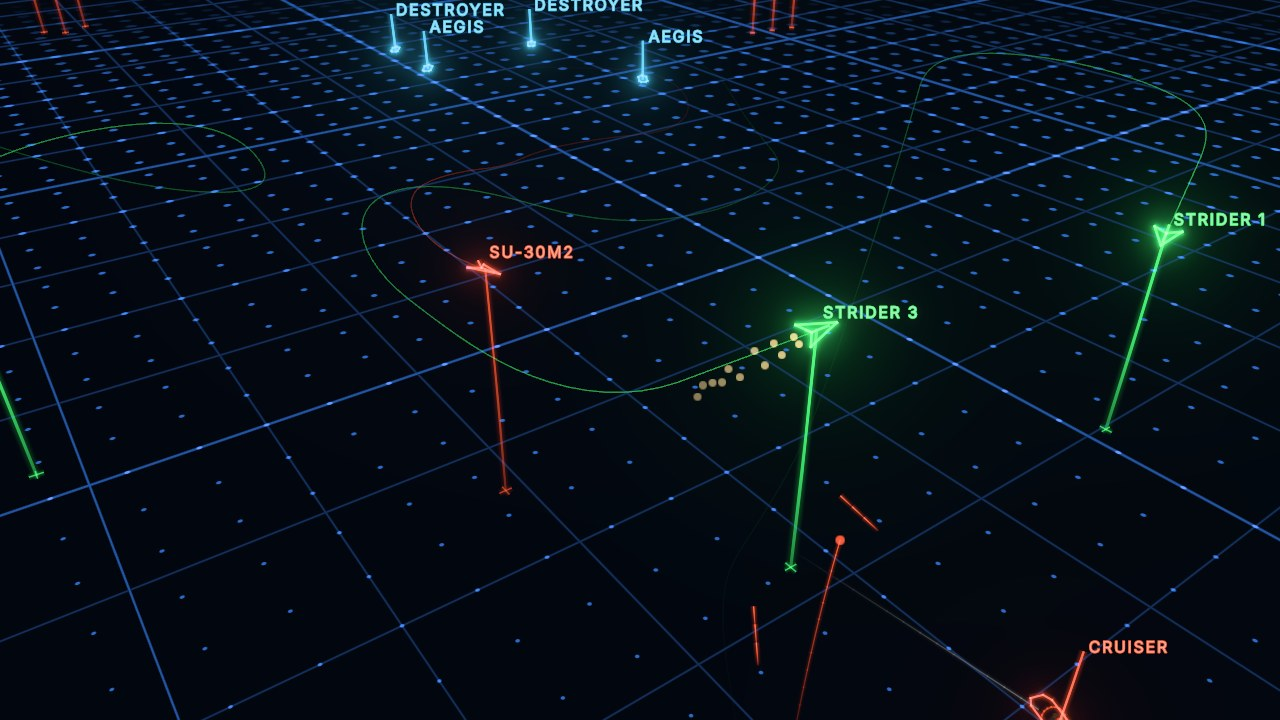
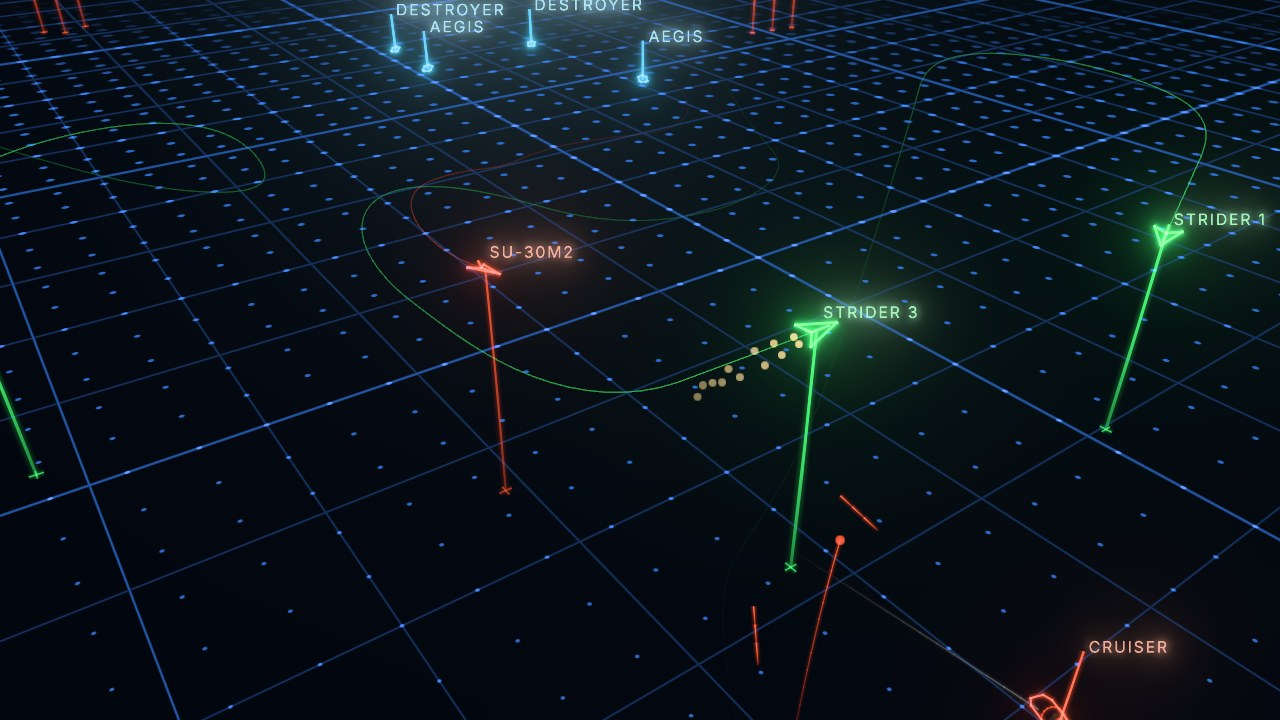
Names: the original text, the glow only from bloom (a names pass feeds the bloom)
- labelMat draws the text as before (the light core fill), without the outline and without any baked glow
- Label sprites are also on LABEL_LAYER; PIPE.names (half-resolution pass of that layer) is added x BLOOM.names
  to the bloom's input only: every name glows with bloom on (red cores sit below the threshold), nothing with
  it off; the text on screen and the map are unchanged. Warmed up with its own target.
- Cache-buster v=50; previews re-rendered

Claude-Session: https://claude.ai/code/session_01TyqJ8XUbLyKheSuJWm7x2w

diff --git a/js/main.js b/js/main.js
@@ -88,19 +88,26 @@ async function warmShaders() {
   const hidden = []; scene.traverse(o => { if (!o.visible) hidden.push(o); });
   const counts = [GLOW.mesh.count, LINES.mesh.geometry.instanceCount];
   hidden.forEach(o => { o.visible = true; }); GLOW.mesh.count = 1; LINES.mesh.geometry.instanceCount = 1;
-  let p;
-  try { p = PIPE.on ? PIPE.scene.compileAsync(renderer) : renderer.compileAsync(scene, camera); }
-  finally { hidden.forEach(o => { o.visible = false; }); GLOW.mesh.count = counts[0]; LINES.mesh.geometry.instanceCount = counts[1]; }
-  await Promise.race([p.catch(e => { console.warn('shader warm-up failed', e); }), new Promise(r => setTimeout(r, WARM_WAIT))]);
+  const ps = [], mask = camera.layers.mask;
+  try {
+    ps.push(PIPE.on ? PIPE.scene.compileAsync(renderer) : renderer.compileAsync(scene, camera));
+    if (PIPE.on) { camera.layers.set(LABEL_LAYER); ps.push(PIPE.names.compileAsync(renderer)); }   // its own target (half res, no MSAA)
+  } finally { camera.layers.mask = mask; hidden.forEach(o => { o.visible = false; }); GLOW.mesh.count = counts[0]; LINES.mesh.geometry.instanceCount = counts[1]; }
+  await Promise.race([Promise.all(ps.map(p => p.catch(e => { console.warn('shader warm-up failed', e); }))), new Promise(r => setTimeout(r, WARM_WAIT))]);
 }
 
 /* ---- render pipeline (RenderPipeline): the scene pass plus bloom (CFG.bloom: glow around what is brighter than the
-   threshold — glyph cores, missiles, bursts, names — and a highlight roll-off (rolloff()), so overlapping additive
-   lines fade to white instead of clipping). Bloom off: plain renderer.render. ---- */
-const BLOOM = { strength: 0.5, radius: 0.45, threshold: 0.75, knee: 0.3 };   // strength at CFG.bloomStrength = 100 %; threshold: linear luminance (glyph cores, not the map)
-const PIPE = { on: false, key: null, rp: null, scene: null, bloom: null };
+   threshold — glyph cores, missiles, bursts — and a highlight roll-off (rolloff()), so overlapping additive lines fade
+   to white instead of clipping). The names have no glow of their own (core.js labelMat) and their light cores sit
+   around the threshold (red ones below it): a half-resolution pass of LABEL_LAYER adds them × BLOOM.names to the
+   bloom's input only — every name glows, the text on screen and the map stay as they are.
+   Bloom off: plain renderer.render. ---- */
+const BLOOM = { strength: 0.5, radius: 0.45, threshold: 0.75, knee: 0.3, names: 1.2 };   // strength at CFG.bloomStrength = 100 %; threshold: linear luminance (glyph cores, not the map)
+const PIPE = { on: false, key: null, rp: null, scene: null, names: null, bloom: null };
 function initPipeline() {
   PIPE.scene = THREE.TSL.pass(scene, camera);
+  const L = new THREE.Layers(); L.set(LABEL_LAYER);
+  PIPE.names = THREE.TSL.pass(scene, camera, { samples: 0 }).setResolutionScale(0.5); PIPE.names.setLayers(L);
   PIPE.rp = new THREE.RenderPipeline(renderer);
 }
 function updatePipeline() {   // after a property change; a new combination compiles its passes on the next frame
@@ -111,7 +118,7 @@ function updatePipeline() {   // after a property change; a new combination comp
   PIPE.key = key; PIPE.on = key !== '';
   if (PIPE.bloom) { PIPE.bloom.dispose(); PIPE.bloom = null; }
   if (!PIPE.on) return;
-  PIPE.bloom = THREE.bloom(PIPE.scene, k, BLOOM.radius, BLOOM.threshold); PIPE.bloom.smoothWidth.value = BLOOM.knee;
+  PIPE.bloom = THREE.bloom(PIPE.scene.add(PIPE.names.mul(BLOOM.names)), k, BLOOM.radius, BLOOM.threshold); PIPE.bloom.smoothWidth.value = BLOOM.knee;
   PIPE.rp.outputNode = rolloff(PIPE.scene.add(PIPE.bloom)); PIPE.rp.needsUpdate = true;
 }
 const bloomK = () => CFG.bloom ? BLOOM.strength * clamp(CFG.bloomStrength, 0, 300) / 100 : 0;

diff --git a/js/core.js b/js/core.js
@@ -64,9 +64,9 @@ const TEX = {
 /* ===== Text labels =====
    One texture per (text, colour, struck), shared through LABEL_CACHE and reference-counted by setLabel: when no sprite
    shows a label any more (a colour or the squadron name changed) its texture is freed, so edits never pile up. Sprites with sizeAttenuation off keep a constant size on screen.
-   The look of the replay: wide-spaced, light, a near-white core outlined in the side's colour — crisp: the glow
-   around it comes from bloom (property bloom, main.js PIPE), never baked into the texture (it would stay with bloom
-   off and pile up with it on). */
+   The look of the replay: wide-spaced, light, a near-white core in the side's tint — crisp: the glow around it comes
+   from bloom (property bloom, main.js PIPE), never baked into the texture (it would stay with bloom off and pile up
+   with it on). */
 const LABEL_FONT = 26, LABEL_H = 44, LABEL_PAD = 12;
 const LABEL_FACE = `400 ${LABEL_FONT}px "Bahnschrift", "Eurostile", "DIN Alternate", "Segoe UI", Arial, sans-serif`;
 const LABEL_CACHE = new Map();
@@ -79,13 +79,8 @@ function labelMat(text, color, struck) {
   font(); const w = Math.ceil(g.measureText(text).width) + LABEL_PAD * 2;
   c.width = w; c.height = LABEL_H; font();
   const L = THREE.LinearSRGBColorSpace, core = '#' + new THREE.Color().setStyle(color, L).lerp(PAL.white, 0.55).getHexString(L), y = LABEL_H / 2 + 1;   // blended on screen (sRGB), not in linear
-  g.textBaseline = 'middle'; g.lineJoin = g.lineCap = 'round';
-  g.strokeStyle = color; g.lineWidth = 2.5; g.strokeText(text, LABEL_PAD, y);   // the side's colour around the core
-  g.fillStyle = core; g.fillText(text, LABEL_PAD, y);
-  if (struck) {
-    g.beginPath(); g.moveTo(LABEL_PAD - 6, y); g.lineTo(w - LABEL_PAD + 6, y);
-    g.strokeStyle = color; g.lineWidth = 5; g.stroke(); g.strokeStyle = core; g.lineWidth = 2.5; g.stroke();
-  }
+  g.textBaseline = 'middle'; g.fillStyle = core; g.fillText(text, LABEL_PAD, y);
+  if (struck) { g.strokeStyle = core; g.lineWidth = 3; g.beginPath(); g.moveTo(LABEL_PAD - 6, y); g.lineTo(w - LABEL_PAD + 6, y); g.stroke(); }
   const tex = new THREE.CanvasTexture(c); tex.colorSpace = THREE.SRGBColorSpace; tex.minFilter = THREE.LinearFilter; tex.generateMipmaps = false;
   m = new THREE.SpriteMaterial({ map: tex, transparent: true, depthWrite: false, depthTest: false, sizeAttenuation: false });
   m.userData.shared = true; m.userData.aspect = w / LABEL_H; m.userData.key = key; m.userData.refs = 0;
@@ -98,7 +93,8 @@ const LABEL_SCALE = 0.027;   // height at distance 1 (camera fov 40°: ≈ 3.7 %
    portrait) they shrink with the aspect (down to LABEL_MIN_K), or they would be as wide as the screen */
 const LABEL_MIN_K = 0.55, LABEL_SPRITES = [];   // every label sprite ever made (pooled with its unit: bounded)
 let LABEL_K = 1;
-function makeLabel() { const s = new THREE.Sprite(); s.center.set(0.02, 0.3); s.renderOrder = 10; LABEL_SPRITES.push(s); return s; }
+const LABEL_LAYER = 1;   // names are on layer 1 too: the bloom source pass of the names (main.js PIPE.names)
+function makeLabel() { const s = new THREE.Sprite(); s.center.set(0.02, 0.3); s.renderOrder = 10; s.layers.enable(LABEL_LAYER); LABEL_SPRITES.push(s); return s; }
 function sizeLabel(s) { const a = s.material.userData.aspect; if (a) s.scale.set(LABEL_SCALE * LABEL_K * a, LABEL_SCALE * LABEL_K, 1); }
 function setLabelScale(aspect) { LABEL_K = clamp(aspect, LABEL_MIN_K, 1); for (const s of LABEL_SPRITES) sizeLabel(s); }
 function setLabel(s, text, color, struck) {

diff --git a/index.html b/index.html
@@ -4,28 +4,28 @@
 <meta charset="utf-8">
 <title>Wireframe Skies</title>
 <link rel="icon" type="image/svg+xml" href="favicon.svg">
-<link rel="stylesheet" href="style.css?v=49">
+<link rel="stylesheet" href="style.css?v=50">
 </head>
 <body>
 <canvas id="c"></canvas>
 <div id="splash"><div class="t">WIREFRAME SKIES</div><div class="s">LOADING MISSION DATA…</div><div class="dots"><i></i><i></i><i></i><i></i></div></div>
-<script src="js/three.min.js?v=49"></script>
-<script src="js/core.js?v=49"></script>
-<script src="js/noise.js?v=49"></script>
-<script src="js/terrain.js?v=49"></script>
-<script src="js/flight.js?v=49"></script>
-<script src="js/models.js?v=49"></script>
-<script src="js/effects.js?v=49"></script>
-<script src="js/audio.js?v=49"></script>
-<script src="js/squad.js?v=49"></script>
-<script src="js/forces.js?v=49"></script>
-<script src="js/enemies.js?v=49"></script>
-<script src="js/bosses.js?v=49"></script>
-<script src="js/allies.js?v=49"></script>
-<script src="js/camera.js?v=49"></script>
-<script src="js/main.js?v=49"></script>
-<script src="js/properties.js?v=49"></script>
-<script src="js/settings.js?v=49"></script>
+<script src="js/three.min.js?v=50"></script>
+<script src="js/core.js?v=50"></script>
+<script src="js/noise.js?v=50"></script>
+<script src="js/terrain.js?v=50"></script>
+<script src="js/flight.js?v=50"></script>
+<script src="js/models.js?v=50"></script>
+<script src="js/effects.js?v=50"></script>
+<script src="js/audio.js?v=50"></script>
+<script src="js/squad.js?v=50"></script>
+<script src="js/forces.js?v=50"></script>
+<script src="js/enemies.js?v=50"></script>
+<script src="js/bosses.js?v=50"></script>
+<script src="js/allies.js?v=50"></script>
+<script src="js/camera.js?v=50"></script>
+<script src="js/main.js?v=50"></script>
+<script src="js/properties.js?v=50"></script>
+<script src="js/settings.js?v=50"></script>
 <script>
   // Audio listener is registered at the end of <body>, as the Wallpaper Engine docs recommend
   if (window.wallpaperRegisterAudioListener) {

diff --git a/CLAUDE.md b/CLAUDE.md
@@ -42,7 +42,7 @@ Sister project and the reference for conventions: `wladbelsky/carrier-wallpaper`
 
 ## Rules / conventions
 - **After changing any JS/CSS file, bump the cache-buster** `?v=N` on all `<script>`/`<link>` tags in
-  `index.html` (WE's CEF caches aggressively). Current: `v=49`.
+  `index.html` (WE's CEF caches aggressively). Current: `v=50`.
 - **New WE property**: add it to `project.json`, read it in `applyUserProperties` (`main.js`) into `CFG`,
   then run `python tools/gen_properties.py`. Property `order` decides the browser-drawer group
   (0–9 camera, 10–19 audio & combat, 20–29 look, 30–39 flight). `repo.spec.js` checks every property is read.
@@ -195,14 +195,17 @@ Sister project and the reference for conventions: `wladbelsky/carrier-wallpaper`
   holds; the ground composes the map in display space (sRGB palette uniforms, `GROUND_K`, anti-aliased coverage) and
   converts it to linear once (`sRGBTransferEOTF`) — the r149 map exactly; label canvases are `SRGBColorSpace`
   textures (their core colour is blended in sRGB) with crisp text and **no baked glow** (no `shadowBlur`): bloom
-  makes the glow, so names are clean with it off and don't get a double halo with it on. Additive overlaps add up in linear light (brighter where lines
+  makes the glow, so names are clean with it off and don't get a double halo with it on. Label sprites are also on
+  `LABEL_LAYER` (1): `PIPE.names`, a half-resolution pass of that layer, is added × `BLOOM.names` to the bloom's input
+  only, so every name glows (red cores sit below the threshold) without changing the text or the map. Additive overlaps add up in linear light (brighter where lines
   cross) and roll off to white (`rolloff`).
 - **Render pipeline** (`PIPE`, `main.js`; `renderFrame()` is the only place that renders a frame): with bloom on, a
   `THREE.RenderPipeline` of `pass(scene, camera)` + `THREE.bloom` (strength `BLOOM.strength` × the `bloomstrength`
   property, radius, luminance threshold, soft knee) + `rolloff()` (identity below 0.76, a soft shoulder to white —
   as in carrier-wallpaper); bloom off (property `bloom`): plain `renderer.render`. `updatePipeline()` rebuilds the output
   node when the property flips (that combination compiles on its next frame).
-- **Shader warm-up** (`warmShaders`): `compileAsync` of the scene (or the scene pass) before the loop starts, hidden
+- **Shader warm-up** (`warmShaders`): `compileAsync` of the scene (or the scene pass, and `PIPE.names` with the camera
+  on `LABEL_LAYER`: its own target) before the loop starts, hidden
   objects shown and empty pools given one instance during its synchronous part (node `compile()` walks only visible
   objects). The first frame compiles only the small post passes (bloom, output quad) — under the splash;
   `render.spec.js` checks nothing compiles after that, a boss fight included. A new material created at runtime would
